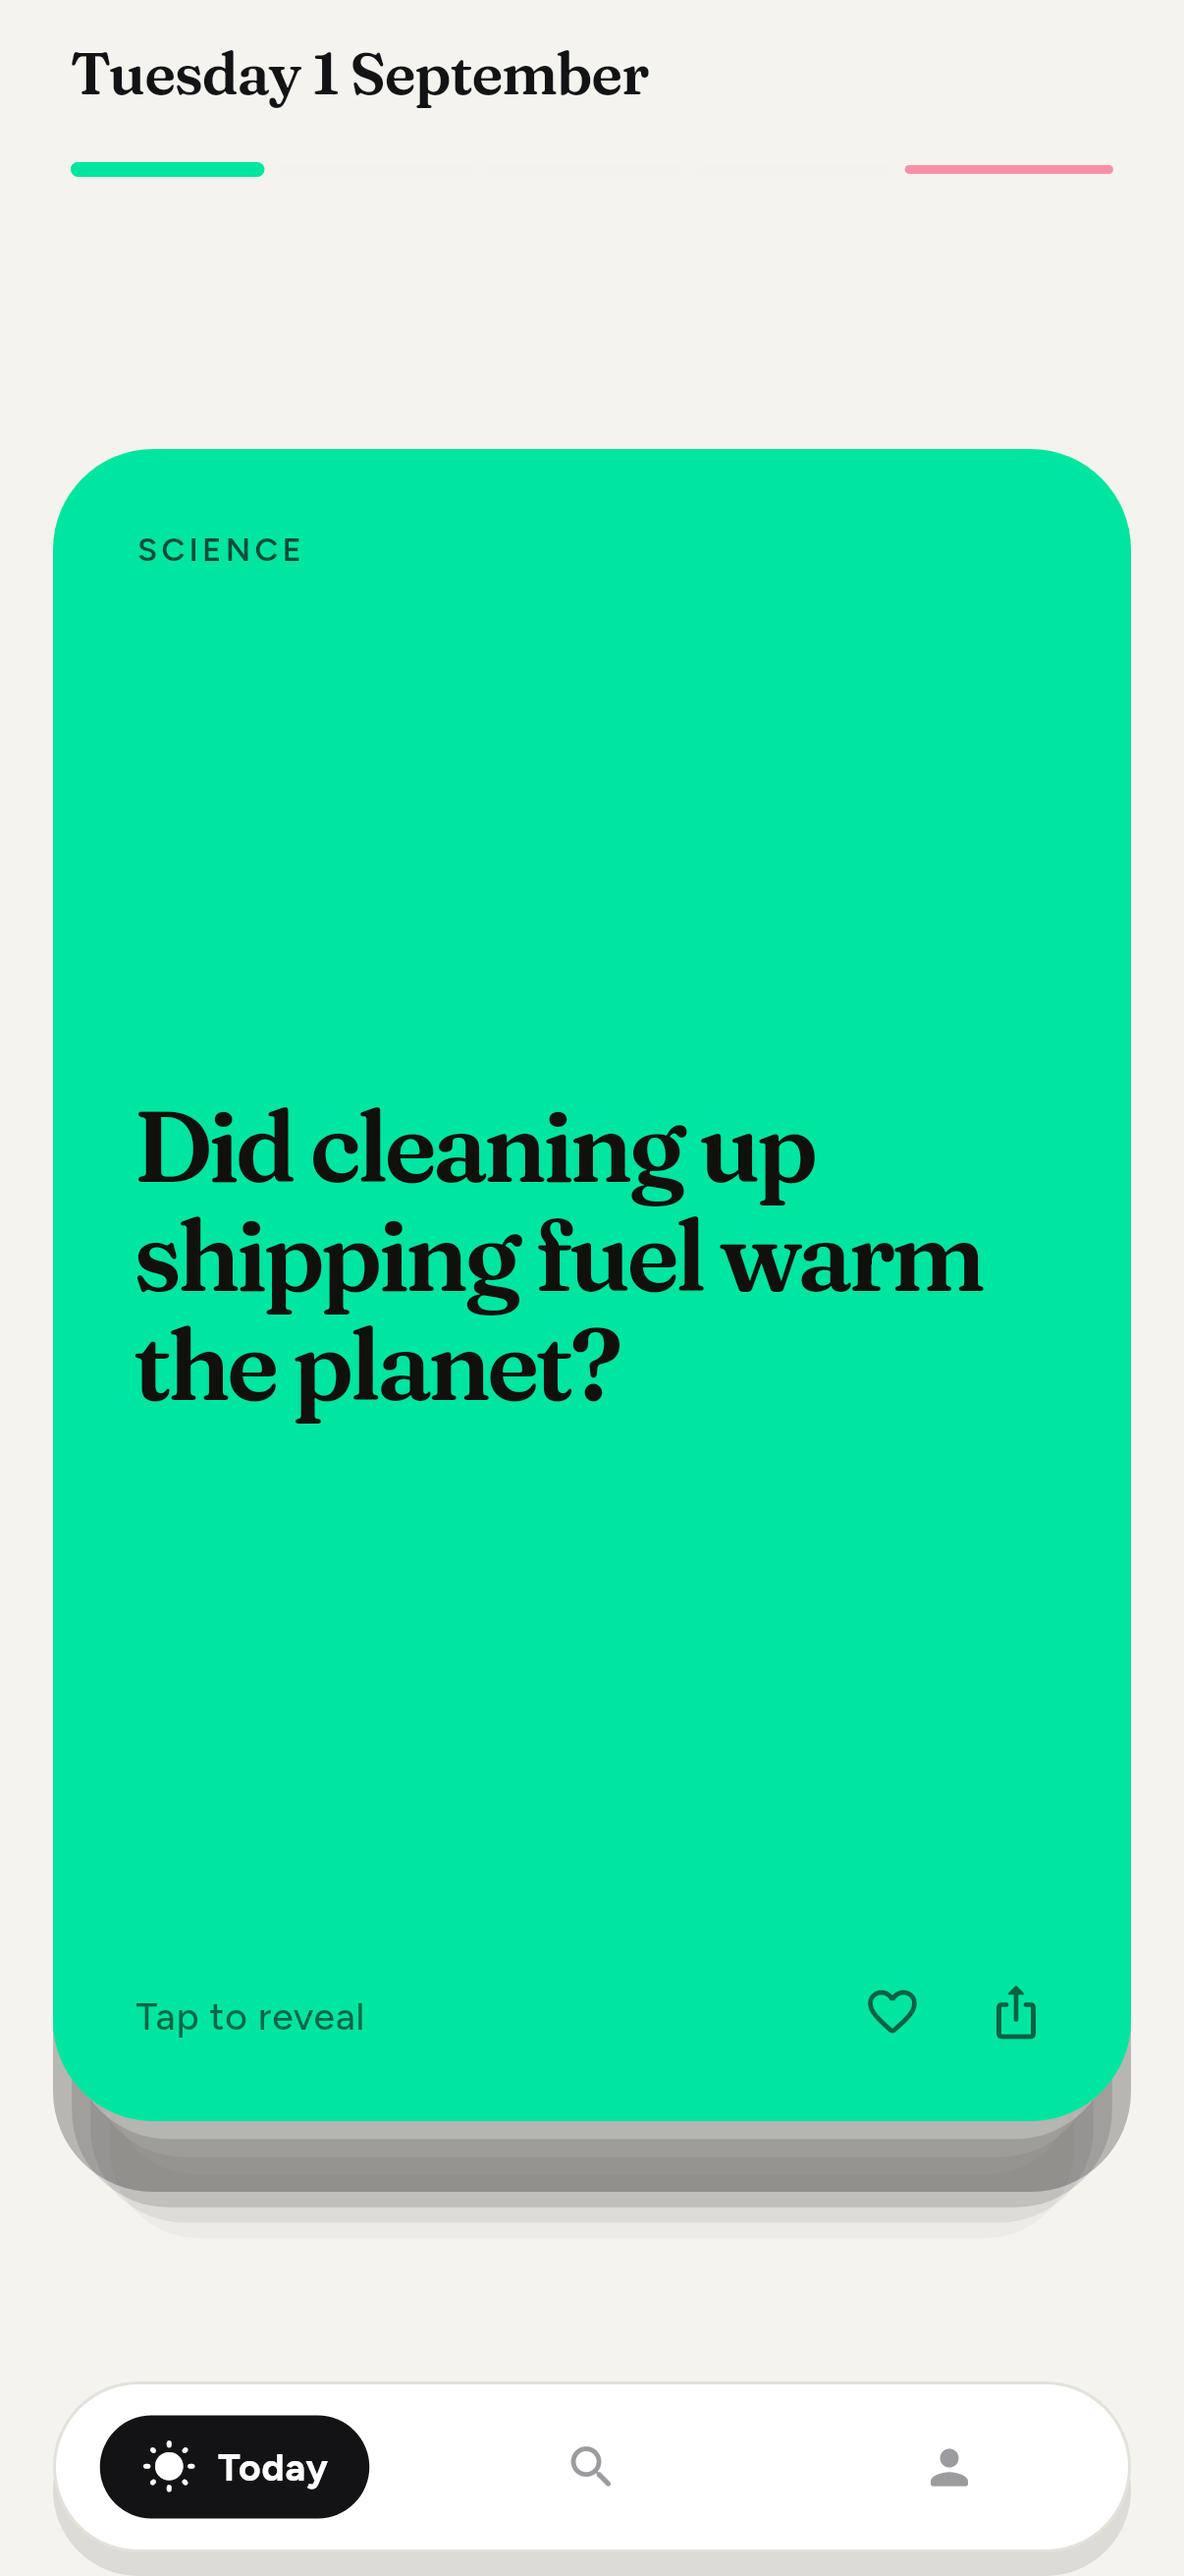
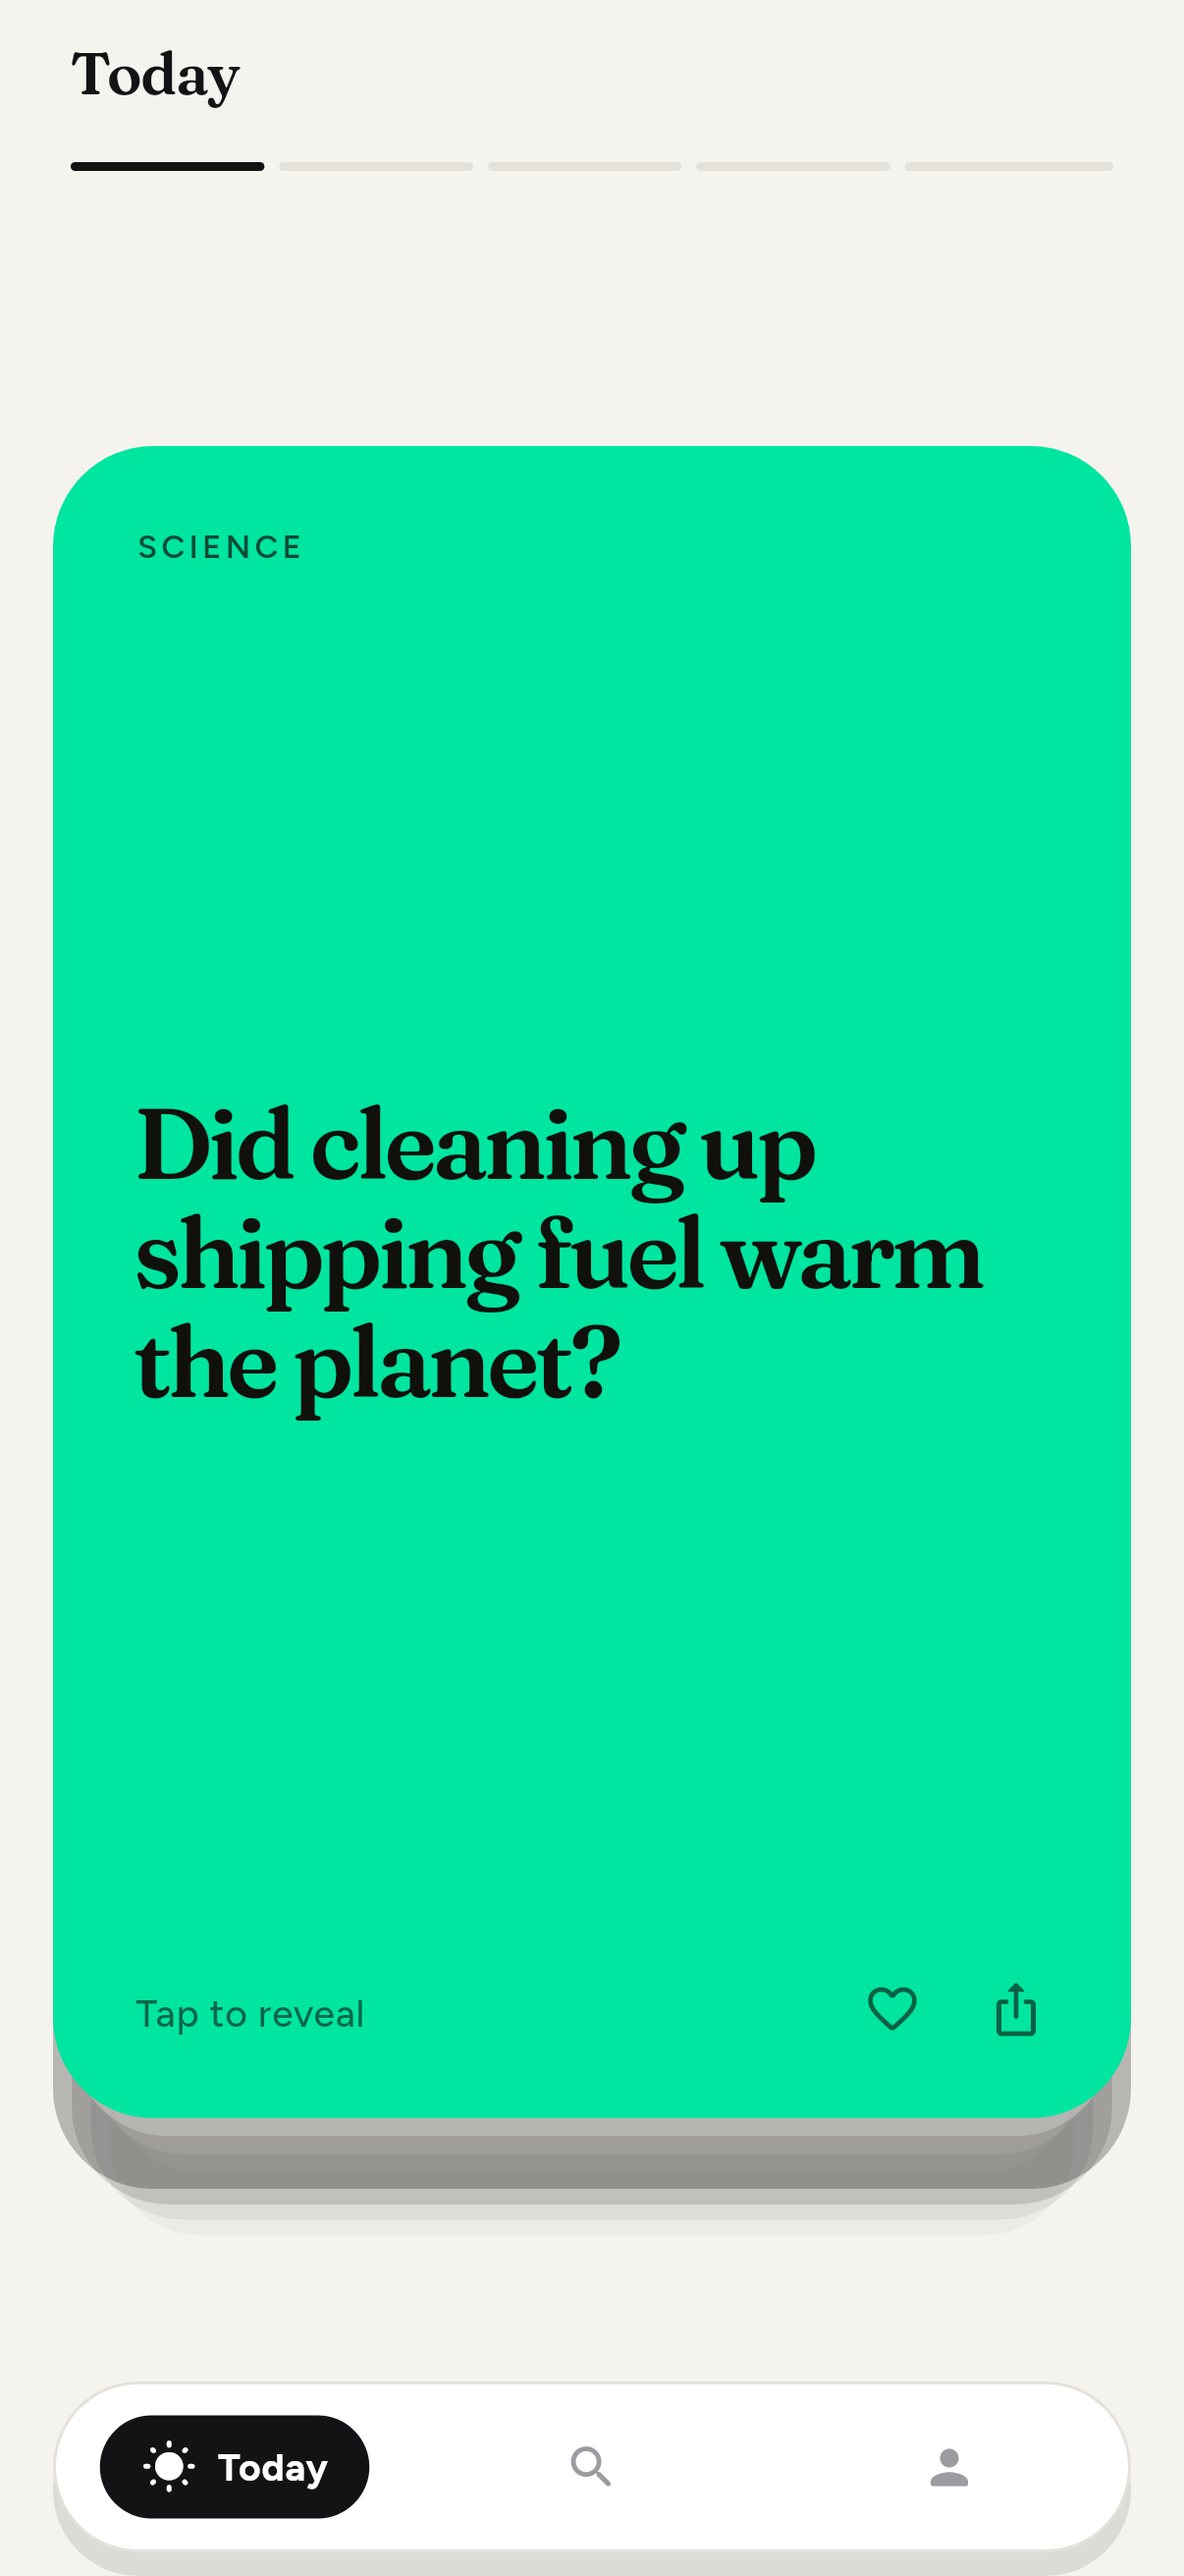
Quieten the finished day, and put "Today" back at the top
Off the closing screen: the streak ring with "one day in a row" under it,
which on day one says nothing worth a whole row, and the bar-move panel,
which was there for a promise the app no longer makes. The profile is where
the streak belongs and will get it back there.

What remains is the tick, the fan, its dots directly beneath it — held to
the fan's own height, or the dots sat at the bottom of the room while the
cards floated above — the way back into the five, the share, and when the
next set comes.

The header says Today rather than the date. The bars while reading are
white again, all of them, as they were: the subject colours there were mine
and did not earn their place.

Claude-Session: https://claude.ai/code/session_01N7S5NWHHUHV1bxBrKEgGPn

diff --git a/lib/screens/recap_view.dart b/lib/screens/recap_view.dart
@@ -35,8 +35,6 @@ class _RecapViewState extends State<RecapView> {
     final deck = app.todaysDeck;
     if (deck.isEmpty) return const SizedBox.shrink();
     final Pill front = deck[_at.clamp(0, deck.length - 1)];
-    final week = app.weekCompletion();
-    final int daysDone = week.where((day) => day).length;
 
     return Stack(
       children: [
@@ -66,33 +64,46 @@ class _RecapViewState extends State<RecapView> {
         Column(
           crossAxisAlignment: CrossAxisAlignment.stretch,
           children: [
-            const SizedBox(height: 4),
-            _StreakHead(streak: app.streak, daysDone: daysDone),
-            const SizedBox(height: 22),
+            const SizedBox(height: 6),
             _AllRead(count: deck.length),
+            // The fan and its dots are one object, centred together in the
+            // room that is left. With the fan alone filling the middle, the
+            // dots sat a long way under it and the two read as unrelated.
             Expanded(
-              child: _Fan(
-                deck: deck,
-                at: _at,
-                onPick: (i) => setState(() => _at = i),
-                onOpen: (i) => openDeckViewer(
-                  context,
-                  app,
-                  deck,
-                  "Today's five",
-                  initialIndex: i,
-                ),
+              child: Column(
+                mainAxisAlignment: MainAxisAlignment.center,
+                children: [
+                  // Held to the fan's own height. Left loose, the fan's
+                  // centring box took the whole middle and the dots ended up
+                  // at the bottom of it, a long way under the cards.
+                  Flexible(
+                    child: ConstrainedBox(
+                      constraints: const BoxConstraints(maxHeight: 318),
+                      child: _Fan(
+                        deck: deck,
+                        at: _at,
+                        onPick: (i) => setState(() => _at = i),
+                        onOpen: (i) => openDeckViewer(
+                          context,
+                          app,
+                          deck,
+                          "Today's five",
+                          initialIndex: i,
+                        ),
+                      ),
+                    ),
+                  ),
+                  const SizedBox(height: 14),
+                  _Dots(
+                    count: deck.length,
+                    at: _at,
+                    colour: front.color,
+                    onPick: (i) => setState(() => _at = i),
+                  ),
+                ],
               ),
             ),
-            _Dots(
-              count: deck.length,
-              at: _at,
-              colour: front.color,
-              onPick: (i) => setState(() => _at = i),
-            ),
-            const SizedBox(height: 16),
-            _SayThis(pill: front),
-            const SizedBox(height: 14),
+            const SizedBox(height: 18),
             _Actions(app: app, deck: deck, front: front),
             const SizedBox(height: 12),
             _NextFive(),
@@ -105,125 +116,6 @@ class _RecapViewState extends State<RecapView> {
 }
 
 /// The streak as a ring closing on the week.
-class _StreakHead extends StatelessWidget {
-  const _StreakHead({required this.streak, required this.daysDone});
-
-  final int streak;
-  final int daysDone;
-
-  static const _words = [
-    'no days',
-    'One day',
-    'Two days',
-    'Three days',
-    'Four days',
-    'Five days',
-    'Six days',
-    'Seven days',
-  ];
-
-  @override
-  Widget build(BuildContext context) {
-    final String said = streak < _words.length
-        ? _words[streak]
-        : '$streak days';
-    final int left = 7 - daysDone;
-    return Row(
-      children: [
-        SizedBox(
-          width: 62,
-          height: 62,
-          child: CustomPaint(
-            painter: _RingPainter(
-              turned: daysDone / 7,
-              ink: context.p.inverse,
-              rest: context.p.ink.withValues(alpha: 0.10),
-            ),
-            child: Center(
-              child: Text(
-                '$streak',
-                style: AppText.display(
-                  size: 22,
-                  weight: FontWeight.w600,
-                  height: 1,
-                  spacing: -0.6,
-                  color: context.p.ink,
-                ),
-              ),
-            ),
-          ),
-        ),
-        const SizedBox(width: 15),
-        Expanded(
-          child: Column(
-            crossAxisAlignment: CrossAxisAlignment.start,
-            children: [
-              Text(
-                streak == 0 ? 'Day one' : '$said in a row',
-                style: AppText.display(
-                  size: 21,
-                  weight: FontWeight.w600,
-                  height: 1.1,
-                  spacing: -0.6,
-                  color: context.p.ink,
-                ),
-              ),
-              const SizedBox(height: 5),
-              Text(
-                left <= 0
-                    ? 'The week is yours'
-                    : left == 1
-                    ? 'One more and the week is yours'
-                    : '$left more and the week is yours',
-                style: AppText.body(
-                  size: 12.5,
-                  height: 1.3,
-                  color: context.p.ink.withValues(alpha: 0.45),
-                ),
-              ),
-            ],
-          ),
-        ),
-      ],
-    );
-  }
-}
-
-class _RingPainter extends CustomPainter {
-  const _RingPainter({
-    required this.turned,
-    required this.ink,
-    required this.rest,
-  });
-
-  final double turned;
-  final Color ink;
-  final Color rest;
-
-  @override
-  void paint(Canvas canvas, Size size) {
-    const double width = 5;
-    final Rect box = (Offset.zero & size).deflate(width / 2);
-    final Paint p = Paint()
-      ..style = PaintingStyle.stroke
-      ..strokeWidth = width
-      ..strokeCap = StrokeCap.round;
-    canvas.drawArc(box, 0, math.pi * 2, false, p..color = rest);
-    if (turned <= 0) return;
-    canvas.drawArc(
-      box,
-      -math.pi / 2,
-      math.pi * 2 * turned.clamp(0, 1),
-      false,
-      p..color = ink,
-    );
-  }
-
-  @override
-  bool shouldRepaint(covariant _RingPainter old) =>
-      old.turned != turned || old.ink != ink;
-}
-
 /// The tick, kept from the version before this one: it says at a glance that
 /// the day has been seen, which is the first thing this screen owes.
 class _AllRead extends StatelessWidget {
@@ -504,48 +396,6 @@ class _Dots extends StatelessWidget {
           ),
         ],
       ],
-    );
-  }
-}
-
-/// The line off the card at the front — what you can actually say tonight.
-class _SayThis extends StatelessWidget {
-  const _SayThis({required this.pill});
-
-  final Pill pill;
-
-  @override
-  Widget build(BuildContext context) {
-    return Container(
-      padding: const EdgeInsets.fromLTRB(19, 18, 19, 18),
-      decoration: BoxDecoration(
-        color: context.p.ink.withValues(alpha: 0.055),
-        borderRadius: BorderRadius.circular(20),
-        border: Border.all(color: context.p.ink.withValues(alpha: 0.07)),
-      ),
-      child: Column(
-        crossAxisAlignment: CrossAxisAlignment.start,
-        children: [
-          Text(
-            'THE BAR MOVE',
-            style: AppText.label(size: 9.5, spacing: 1.5, color: pill.color),
-          ),
-          const SizedBox(height: 8),
-          AnimatedSwitcher(
-            duration: const Duration(milliseconds: 260),
-            child: Text(
-              pill.barMove,
-              key: ValueKey(pill.id),
-              style: AppText.body(
-                size: 15.5,
-                height: 1.4,
-                weight: FontWeight.w500,
-                color: context.p.ink.withValues(alpha: 0.94),
-              ),
-            ),
-          ),
-        ],
-      ),
     );
   }
 }

diff --git a/lib/screens/today_screen.dart b/lib/screens/today_screen.dart
@@ -1,7 +1,6 @@
 import 'package:flutter/material.dart';
 import 'package:flutter/services.dart';
 
-import '../models/pill.dart';
 import '../state/app_state.dart';
 import '../theme.dart';
 import '../widgets/pill_card_stack.dart';
@@ -73,7 +72,7 @@ class _TodayScreenState extends State<TodayScreen> {
           // screen says so in words, and a full row of colour under that is
           // decoration on a screen whose whole job is to be quiet.
           if (!app.todayCompleted) ...[
-            _ProgressBars(deck: deck, index: index, done: false),
+            _ProgressBars(total: deck.length, index: index),
             const SizedBox(height: 16),
           ],
 
@@ -117,36 +116,6 @@ class _Header extends StatelessWidget {
   final VoidCallback? onBack;
   const _Header({required this.streak, this.frozen = false, this.onBack});
 
-  /// Monday 1 September. Built here rather than pulling in a localisation
-  /// package for one line.
-  static String _today() {
-    const days = [
-      'Monday',
-      'Tuesday',
-      'Wednesday',
-      'Thursday',
-      'Friday',
-      'Saturday',
-      'Sunday',
-    ];
-    const months = [
-      'January',
-      'February',
-      'March',
-      'April',
-      'May',
-      'June',
-      'July',
-      'August',
-      'September',
-      'October',
-      'November',
-      'December',
-    ];
-    final now = DateTime.now();
-    return '${days[now.weekday - 1]} ${now.day} ${months[now.month - 1]}';
-  }
-
   @override
   Widget build(BuildContext context) {
     return Padding(
@@ -157,9 +126,6 @@ class _Header extends StatelessWidget {
             BackCircle(onPressed: onBack!),
             const SizedBox(width: 12),
           ],
-          // The day, not the app's name. Every app knows what it is called;
-          // what a reader opening a daily app twice needs to know is which
-          // day's five these are.
           // A long date and a streak badge do not both fit on a narrow
           // handset. The date gives way by a point or two rather than being
           // clipped, or overflowing, which is what it did.
@@ -168,7 +134,7 @@ class _Header extends StatelessWidget {
               fit: BoxFit.scaleDown,
               alignment: Alignment.centerLeft,
               child: Text(
-                _today(),
+                'Today',
                 maxLines: 1,
                 style: AppText.display(
                   size: 20,
@@ -222,50 +188,30 @@ class _Header extends StatelessWidget {
 }
 
 class _ProgressBars extends StatelessWidget {
-  final List<Pill> deck;
+  final int total;
   final int index;
-  final bool done;
-  const _ProgressBars({
-    required this.deck,
-    required this.index,
-    required this.done,
-  });
+  const _ProgressBars({required this.total, required this.index});
 
   @override
   Widget build(BuildContext context) {
-    final total = deck.length;
     return Padding(
       // The bars are the only thing that says where in the day you are, now
       // that the card has stopped repeating it. The key names what they
       // draw, so it can be read without a caption existing for its own sake.
-      key: ValueKey('progress-${done ? total : index + 1}-of-$total'),
+      key: ValueKey('progress-${index + 1}-of-$total'),
       padding: const EdgeInsets.symmetric(horizontal: 6),
       child: Row(
         children: List.generate(total, (i) {
-          final read = done || i < index;
-          final here = !done && i == index;
-          // Each bar is its own card, in that card's colour. Five identical
-          // grey dashes said only how far along you were; these say what the
-          // day is made of before you have read any of it, and the one under
-          // the thumb is the one lit.
-          final colour = deck[i].color;
+          final filled = i <= index;
           return Expanded(
             child: AnimatedContainer(
               duration: Duration(milliseconds: 260 + i * 40),
               curve: Curves.easeOut,
               margin: EdgeInsets.only(right: i == total - 1 ? 0 : 5),
-              height: here ? 5 : 3,
+              height: 3,
               decoration: BoxDecoration(
-                color: read || here ? colour : colour.withValues(alpha: 0.5),
+                color: filled ? context.p.ink : context.p.line,
                 borderRadius: BorderRadius.circular(9),
-                boxShadow: here
-                    ? [
-                        BoxShadow(
-                          color: colour.withValues(alpha: 0.5),
-                          blurRadius: 12,
-                        ),
-                      ]
-                    : null,
               ),
             ),
           );

diff --git a/test/widget_test.dart b/test/widget_test.dart
@@ -801,11 +801,9 @@ void main() {
       await _settle(tester);
     }
 
-    // The tick says at a glance that the day has been seen, the deck comes
-    // back fanned, and the line off the card at the front is what you can
-    // actually say tonight.
+    // The tick says at a glance that the day has been seen, and the deck
+    // comes back fanned.
     expect(find.text("TODAY'S FIVE · ALL READ"), findsOneWidget);
-    expect(find.text('THE BAR MOVE'), findsOneWidget);
 
     // The card at the front opens itself. It is the middle one, so the fan
     // opens both ways.
